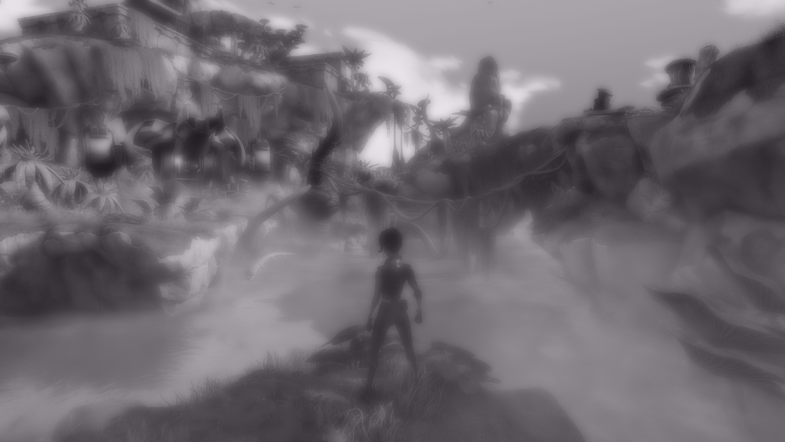
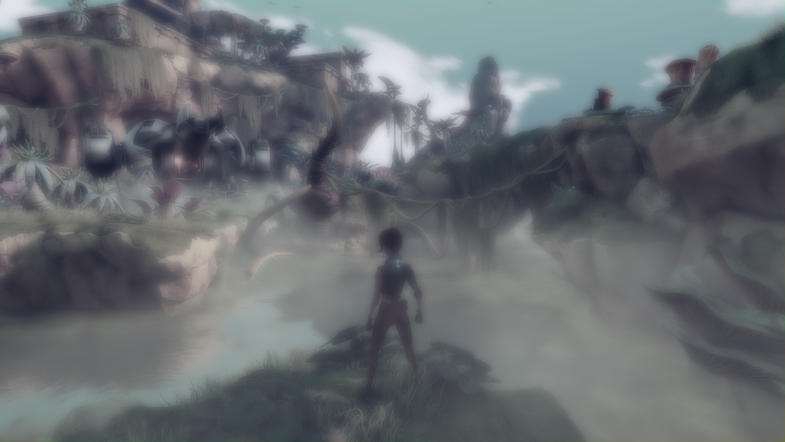
Change colors

Changed region(s): [[0.7643, 0.0, 0.9478, 0.1471], [0.9783, 0.9706, 1.0, 1.0]]

diff --git a/packages/web/src/components/Indicator/Indicator.jsx b/packages/web/src/components/Indicator/Indicator.jsx
@@ -19,12 +19,13 @@ const Circle = styled('div')`
 
 const Container = styled('div')`
   position: relative;
-  opacity: ${props => (props.active ? 1 : 0.05)};
+  opacity: ${props => (props.active ? 1 : 0.2)};
   transition: opacity 500ms;
   cursor: pointer;
+  font-size: ${props => (props.active ? '16px' : '14px')};
 
   &:hover {
-    opacity: ${props => !props.active && 0.3};
+    opacity: ${props => !props.active && 0.5};
   }
 `;
 

diff --git a/packages/web/src/styles/_variables.scss b/packages/web/src/styles/_variables.scss
@@ -14,11 +14,11 @@ $primary: #007bff !default;
 $text-muted: $gray-600 !default;
 $text-light: #d1cdd3;
 
-$sky-bg: #232933;
-$main-bg: #131419;
-$game-bg: #131217;
-$app-bg: #181116;
-$core-bg: #221817;
+$sky-bg: #17181d;
+$main-bg: #1f222c;
+$game-bg: #131114;
+$app-bg: #221920;
+$core-bg: #231918;
 
 $table-caption-color: $text-muted !default;
 $table-cell-padding:  .75rem !default;

diff --git a/packages/web/src/pages/Main/Main.scss b/packages/web/src/pages/Main/Main.scss
@@ -12,12 +12,14 @@
 }
 
 .logo {
+  height: 120px;
   margin-bottom: 3em;
 }
 
 .heading {
   text-align: center;
-  color: $white;
+  color: $white !important;
+  opacity: .9;
   font-size: 3.8em !important;
 }
 
